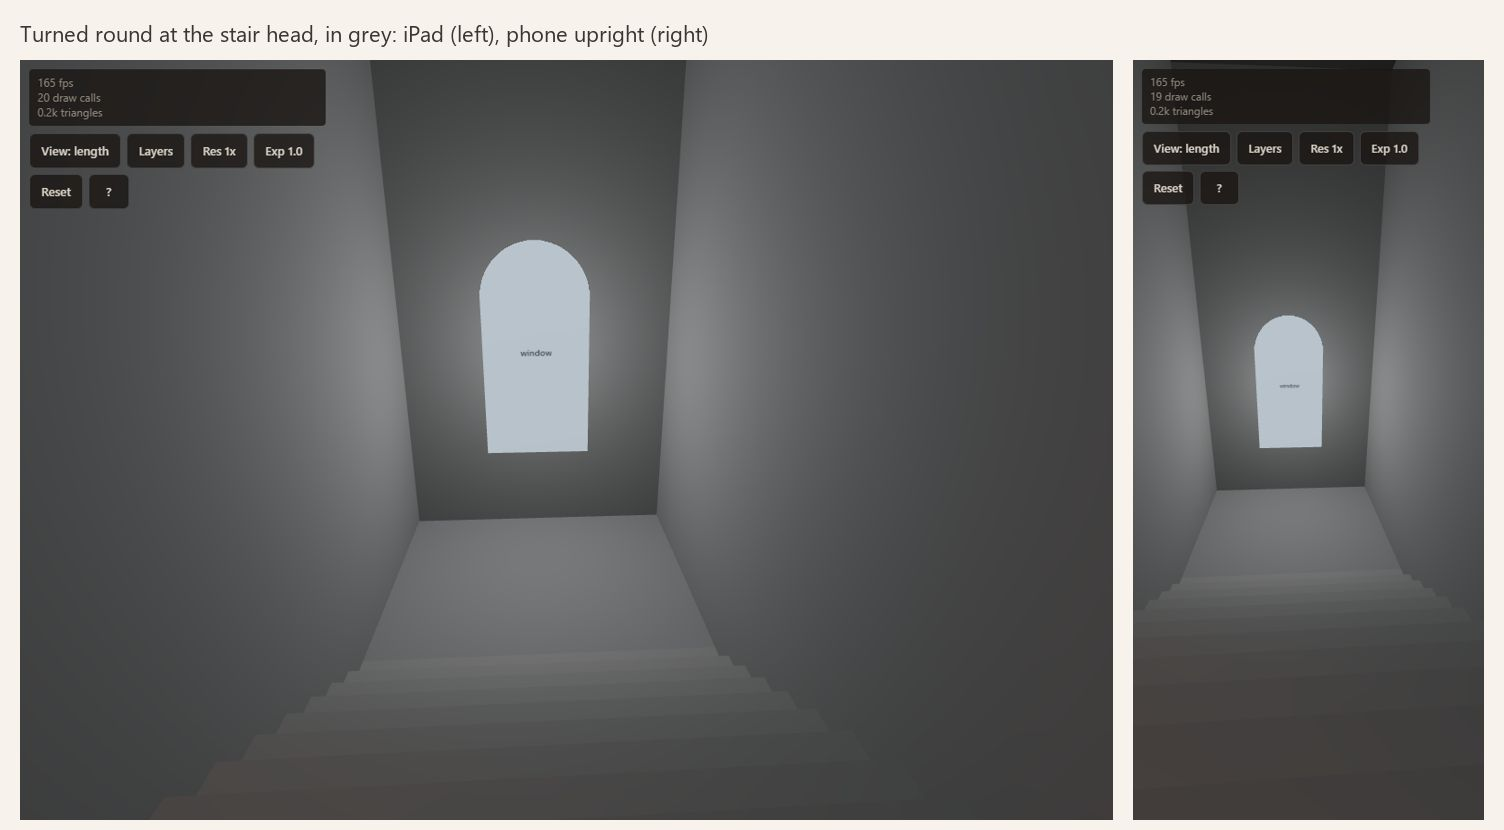
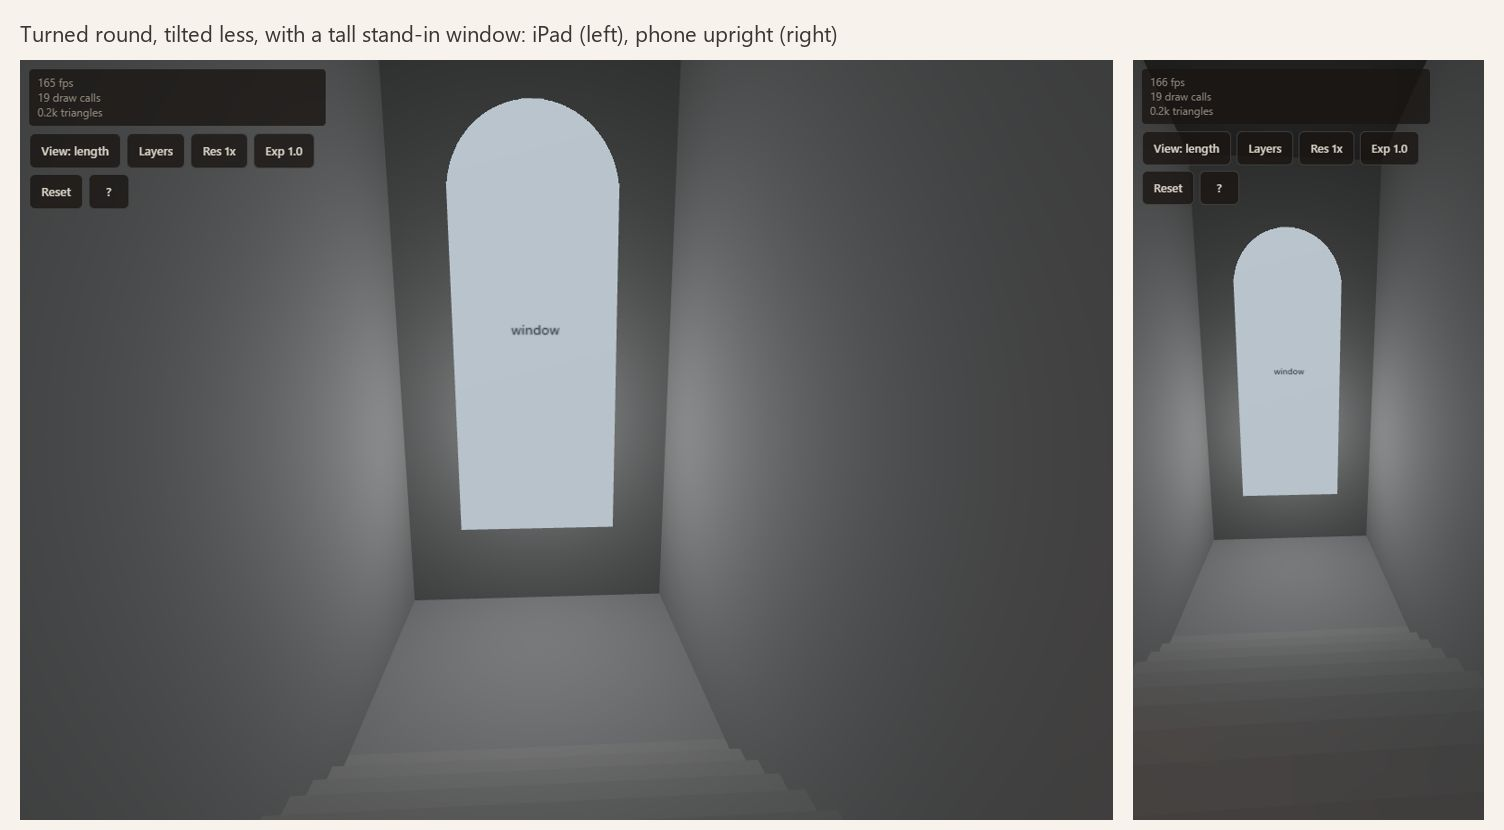
Corridor: the turned view tilted less, the landing's window tall (req 22)

diff --git a/page/corridor.html b/page/corridor.html
@@ -272,8 +272,8 @@ for (var si = 1; si <= STEPS; si++) {
 var landing = new THREE.Mesh(new THREE.PlaneGeometry(LANDING_D, WIDTH), floorMat);
 landing.rotation.x = -Math.PI / 2; landing.position.set((FOOT_X + FAR_END_X) / 2, FOOT_Y, MID_Z);
 landing.name = 'landing'; scene.add(landing); register(landing, 0);
-var LANDING_WINDOW = { w: 1.2, h: 2.4, sill: 0.9 };
-var landingWindow = cutoutMesh(cutoutTexture(120, 240, '#c9d6e2', drawArch, 'window'), LANDING_WINDOW.w, LANDING_WINDOW.h);
+var LANDING_WINDOW = { w: 1.8, h: 4.6, sill: 0.9 };   /* grand and tall, stained glass (David, 9 October 2026); size provisional until req 29's plan */
+var landingWindow = cutoutMesh(cutoutTexture(120, 307, "#c9d6e2", drawArch, "window"), LANDING_WINDOW.w, LANDING_WINDOW.h);
 landingWindow.material = new THREE.MeshBasicMaterial({ map: landingWindow.material.map, alphaTest: 0.5, color: col(0xdfe8f0) });
 landingWindow.position.set(FAR_END_X + 0.01, FOOT_Y + LANDING_WINDOW.sill + LANDING_WINDOW.h / 2, MID_Z);
 landingWindow.rotation.y = Math.PI / 2;
@@ -480,7 +480,7 @@ scene.add(landingLight);
    stage: the far wall cut away, the camera outside it facing her wall square on; a drag slides along it. */
 var EYE = 1.35;
 var VIEWS = {
-  length: { pos: new THREE.Vector3(-11.0, EYE, MID_Z), yawMax: 0.45, pitchMax: 0.12, turnBand: 0.35, turnTilt: 20, turnGain: 2.5 },
+  length: { pos: new THREE.Vector3(-11.0, EYE, MID_Z), yawMax: 0.45, pitchMax: 0.12, turnBand: 0.35, turnTilt: 12, turnGain: 2.5 },
   stage: { z: FAR_Z - 3.4, xMin: -10.0, xMax: -0.2, x0: -1.6 }
 };
 var view = /[?&]view=stage/.test(location.search) ? 'stage' : 'length';
